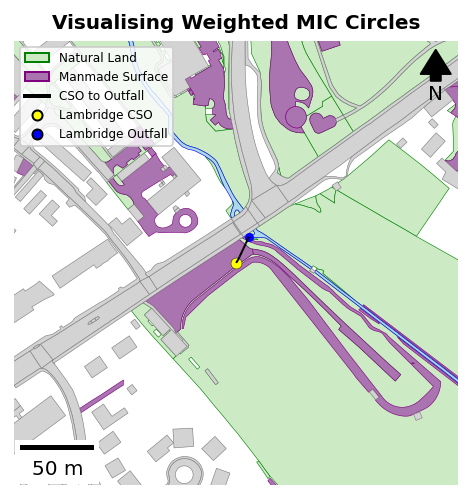
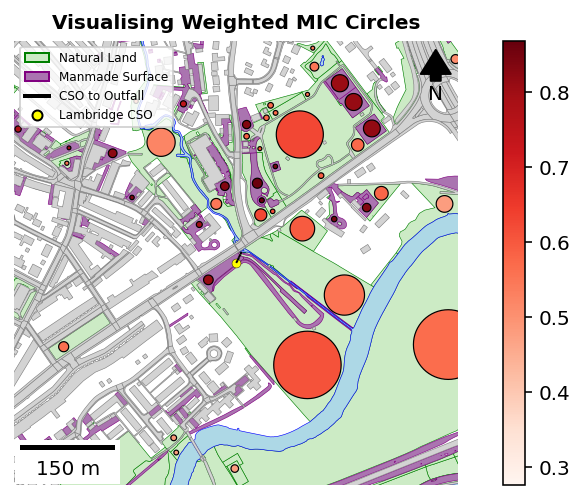
changing weights for landuse priority

diff --git a/dissertation-code.py b/dissertation-code.py
@@ -327,11 +327,11 @@ landuse_MIC_safe.to_file("out/landuse_MIC_safe.shp")
 MIC_landuse = gpd.read_file("out/landuse_MIC_safe.shp")
 
 # USER DEFINED WEIGHTING (must sum up to 1.0) ----
-W_DISTANCE = 0.15
-W_LANDUSE = 0.15
+W_DISTANCE = 0.3
+W_LANDUSE = 0.5
 W_TANKSIZE = 0.1
-W_FLOODZONE_2 = 0.3
-W_FLOODZONE_3 = 0.3
+W_FLOODZONE_2 = 0.05
+W_FLOODZONE_3 = 0.05
 
 
 # DISTANCE FROM CSO - NEED LOCATION ----
@@ -498,7 +498,7 @@ title("Visualising Weighted MIC Circles", fontsize = 10, weight='bold')
 
 #USER DEFINED PARAMETER
 #buffer around the border itself - to give us some context
-CSO_ZOOM_BUFFER = 150
+CSO_ZOOM_BUFFER = 350
 
 # extract the bounds from the CSO layer
 cso_buffer = cso.geometry.buffer(CSO_ZOOM_BUFFER)
@@ -546,18 +546,18 @@ buildings.plot(ax = my_ax, color = 'lightgrey', edgecolor = 'grey',  linewidth =
 #manmade land MIC
 #manmade_mic.plot(ax = my_ax, color = 'lightgrey', edgecolor = 'black',  linewidth = 1)
 
-#MIC_landuse.plot(
- #   ax=my_ax,
- #   column="final_score",
-  #  cmap="Reds",
-  #  legend=True,
-  #  edgecolor="black",
-  #  linewidth=0.6)
+MIC_landuse.plot(
+    ax=my_ax,
+    column="final_score",
+    cmap="Reds",
+    legend=True,
+    edgecolor="black",
+    linewidth=0.6)
 
 #CSO Plot ---------
-cso.plot(ax = my_ax, color = 'yellow', edgecolor='black', markersize=30, linewidths=0.2)
+cso.plot(ax = my_ax, color = 'yellow', edgecolor='black', markersize=20, linewidths=0.2)
 cso2outfall.plot(ax = my_ax, color = 'black', linewidth = 1)
-outfall.plot(ax = my_ax, color = 'blue', markersize =12)
+#outfall.plot(ax = my_ax, color = 'blue', markersize =12)
 
 
 # Extras on the map ---------
@@ -578,7 +578,7 @@ my_ax.legend(handles=[
         Patch(facecolor='#aa74b0', edgecolor='purple', label="Manmade Surface"),
         Line2D([0], [0], color='black',  lw=2, label='CSO to Outfall' ),
         Line2D([0], [0], marker='o', linestyle='None', markerfacecolor='yellow', markeredgecolor='black', markersize=5, label='Lambridge CSO'),
-        Line2D([0], [0], marker='o', linestyle='None', markerfacecolor='blue', markeredgecolor='black', markersize=5, label='Lambridge Outfall')
+        #Line2D([0], [0], marker='o', linestyle='None', markerfacecolor='blue', markeredgecolor='black', markersize=5, label='Lambridge Outfall')
         #Patch(facecolor='#5CFFFC', edgecolor='lightblue', label="Flood Zone 2"),
         #Patch(facecolor='#CACFFC', edgecolor='lightblue', label="Flood Zone 3")
     ],loc='upper left', fontsize=6)
